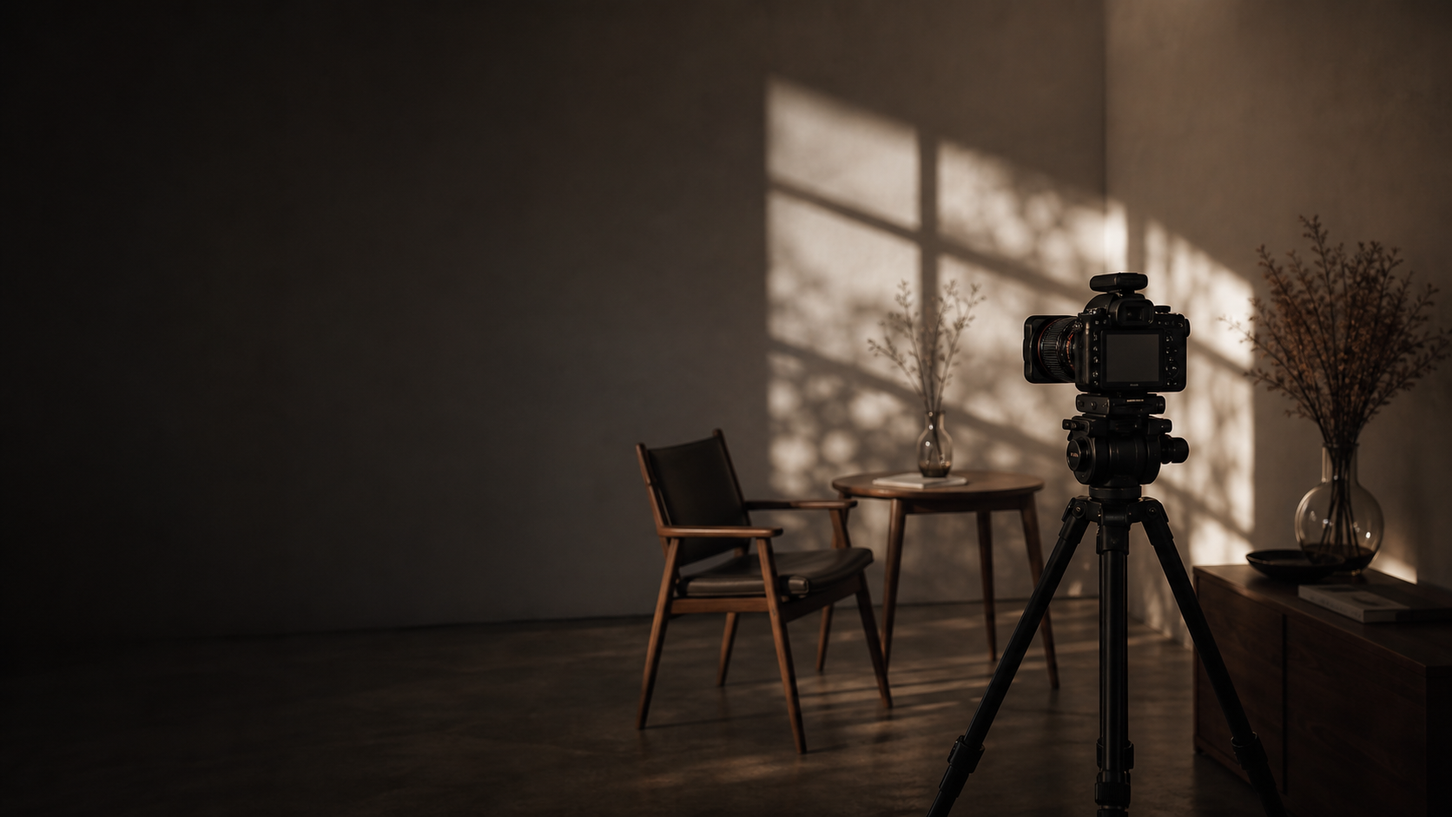
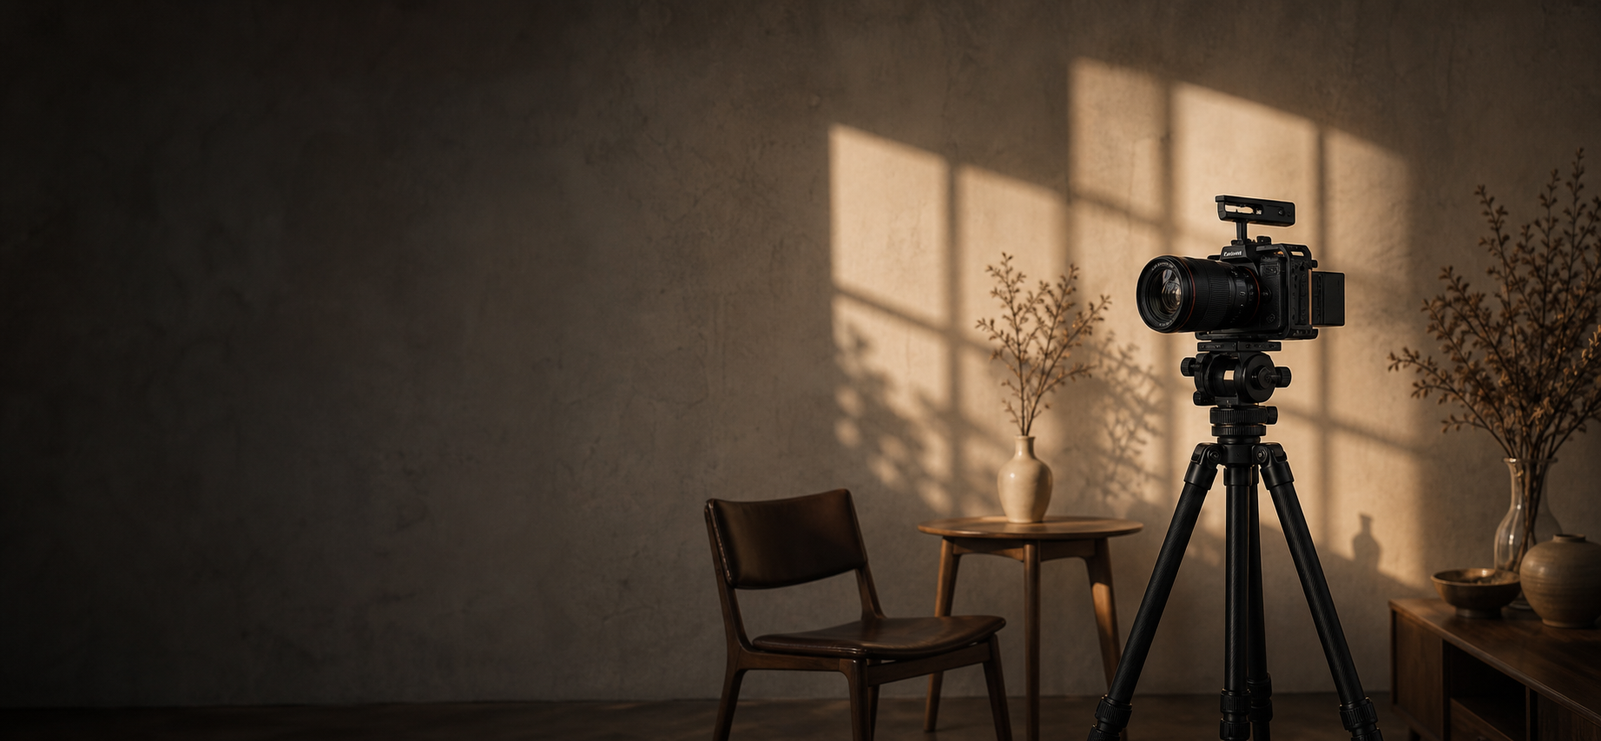
Migrate Workers frontend

diff --git a/index.html b/index.html
@@ -1,11 +1,44 @@
-<!doctype html><html lang="zh-Hant"><head><meta charset="utf-8"><!-- Google tag (gtag.js) --><script async src="https://www.googletagmanager.com/gtag/js?id=G-9WHNBT7GTQ"></script><script>window.dataLayer = window.dataLayer || []; function gtag(){dataLayer.push(arguments);} gtag('js', new Date()); gtag('config', 'G-9WHNBT7GTQ');</script><meta name="viewport" content="width=device-width,initial-scale=1"><meta name="description" content="隙光影像｜讓每一段影音，都成為成交的契機。"><title>隙光 SEAM OF LIGHT｜影像品牌顧問</title><link href="https://cdn.jsdelivr.net/npm/bootstrap@5.3.3/dist/css/bootstrap.min.css" rel="stylesheet"><link rel="stylesheet" href="https://cdn.jsdelivr.net/npm/bootstrap-icons@1.11.3/font/bootstrap-icons.min.css"><link rel="stylesheet" href="style.css"></head><body>
-<nav class="navbar navbar-expand-lg navbar-dark fixed-top" id="nav"><div class="container"><a class="navbar-brand logo" href="#top">隙 光<small>— SEAM OF LIGHT —</small></a><button class="navbar-toggler border-0" data-bs-toggle="collapse" data-bs-target="#menu"><span class="navbar-toggler-icon"></span></button><div class="collapse navbar-collapse" id="menu"><ul class="navbar-nav ms-auto align-items-lg-center gap-lg-4"><li><a class="nav-link" href="#services">服務內容</a></li><li><a class="nav-link" href="#method">製作方法論</a></li><li><a class="nav-link" href="#works">作品案例</a></li><li><a class="nav-link" href="#contact">關於我們</a></li><li><a class="btn btn-cream ms-lg-2" href="#contact">立即預約</a></li></ul></div></div></nav>
-<header class="hero" id="top"><div class="container hero-content"><p class="eyebrow">BRAND FILM · VISUAL STRATEGY</p><h1 id="heroTitle">讓每一段影音，<br>都成為成交的契機。</h1><p id="heroDesc">我們不只拍攝影片，<br>更專注於打造「能被看完、被記住、能轉化」的影音內容。</p><a class="btn btn-cream btn-lg" href="#contact">立即預約影音診斷 <i class="bi bi-arrow-right ms-3"></i></a></div><a class="scroll" href="#problem">SCROLL<span></span></a></header>
+<!doctype html>
+<html lang="zh-Hant">
+<head>
+  <meta charset="utf-8">
+  <!-- Google tag (gtag.js) -->
+  <script async src="https://www.googletagmanager.com/gtag/js?id=G-9WHNBT7GTQ"></script>
+  <script>
+    window.dataLayer = window.dataLayer || [];
+    function gtag(){dataLayer.push(arguments);}
+    gtag('js', new Date());
+    gtag('config', 'G-9WHNBT7GTQ');
+  </script>
+  <meta name="viewport" content="width=device-width,initial-scale=1">
+  <meta name="description" content="隙光影像製作，以觀點整理影像，讓內容留下真正的光。">
+  <title>隙光 SLIT.LIGHT｜品牌影像製作</title>
+  <link rel="preconnect" href="https://fonts.googleapis.com">
+  <link rel="preconnect" href="https://fonts.gstatic.com" crossorigin>
+  <link href="https://fonts.googleapis.com/css2?family=Noto+Sans+TC:wght@300;400;500&family=Noto+Serif+TC:wght@400;500;600&display=swap" rel="stylesheet">
+  <link href="https://cdn.jsdelivr.net/npm/bootstrap@5.3.3/dist/css/bootstrap.min.css" rel="stylesheet">
+  <link rel="stylesheet" href="https://cdn.jsdelivr.net/npm/bootstrap-icons@1.11.3/font/bootstrap-icons.min.css">
+  <link href="style.css?v=5" rel="stylesheet">
+</head>
+<body>
+<nav class="navbar navbar-expand-lg fixed-top"><div class="container-fluid shell"><a class="navbar-brand brand" href="#top">隙 光<small>SLIT.LIGHT</small></a><button class="navbar-toggler border-0" data-bs-toggle="collapse" data-bs-target="#nav" aria-label="開啟選單"><span class="navbar-toggler-icon"></span></button><div id="nav" class="collapse navbar-collapse"><ul class="navbar-nav ms-auto align-items-lg-center gap-lg-4"><li><a class="nav-link" href="#philosophy">品牌哲學</a></li><li><a class="nav-link" href="#values">核心價值</a></li><li><a class="nav-link" href="#services">服務項目</a></li><li><a class="nav-link" href="#process">合作流程</a></li><li><a class="nav-link" href="#works">作品精選</a></li><li><a class="nav-link" href="#contact">聯絡諮詢</a></li><li><a class="btn btn-gold ms-lg-2" href="#contact">預約品牌影像診斷</a></li></ul></div></div></nav>
+
 <main>
-<section class="problem section" id="problem"><div class="container"><div class="row align-items-center g-5"><div class="col-lg-6"><p class="eyebrow dark">THE QUESTION</p><h2>在資訊爆炸的時代，<br>您的影片，真的有效嗎？</h2><p class="mt-4">數以萬計的影片被上傳，但多數只是「鋪陳太長、沒人看完」。<br>您的影片是華麗的素材展示，還是能持續優化的「詢問來源」？</p><div class="insight"><i class="bi bi-bullseye"></i><span>影片失敗的原因，往往不是預算，而是缺乏<br>品牌定位與轉化故事設計。</span></div></div><div class="col-lg-6 phone-art"><div class="phone"><i class="bi bi-play-fill"></i></div><div class="hand"></div></div></div></div></section>
-<section class="philosophy section border-top border-bottom"><div class="container"><div class="row g-0"><div class="col-lg-3 pe-lg-5"><p class="eyebrow dark">OUR PHILOSOPHY</p><h2>隙光的信念</h2></div><div class="col-md-4 col-lg-3 pillar"><h3>隙</h3><p>代表市場中的空隙，<br>以及品牌與受眾間<br>尚未被填補的距離。</p></div><div class="col-md-4 col-lg-3 pillar"><h3>光</h3><p>代表故事與情感責任；<br>當光照進心中，<br>就是成長的開始。</p></div><div class="col-md-4 col-lg-3 pillar"><h3>我們相信</h3><p>真正的價值不在於華麗特效，<br>而在於讓人<br>願意相信、願意行動。</p></div></div></div></section>
-<section class="section" id="services"><div class="container"><p class="eyebrow dark">OUR SERVICES</p><h2>我們的服務</h2><div class="row g-4 mt-4" id="serviceList"></div></div></section>
-<section class="section method" id="method"><div class="container"><p class="eyebrow dark">OUR METHODOLOGY</p><h2>我們的製作方法論</h2><div class="row g-4 mt-4"><div class="col-md-4"><article class="method-card"><div class="method-img devices"><i class="bi bi-laptop"></i><i class="bi bi-phone"></i></div><div><h3>多版本設計</h3><p>一次拍攝，輸出適合官網、社群、展場等多場景版本，極大化預算效益。</p></div></article></div><div class="col-md-4"><article class="method-card"><div class="method-img blueprint"><i class="bi bi-bezier2"></i></div><div><h3>轉化金公式</h3><p>前 3 秒吸睛鉤子＋單一主題傳達＋強力行動呼籲。</p></div></article></div><div class="col-md-4"><article class="method-card"><div class="method-img meeting"><i class="bi bi-people"></i></div><div><h3>系統化管理</h3><p>從訪談、腳本、前置、拍攝到後製，由同一窗口管理，減少溝通成本。</p></div></article></div></div></div></section>
-<section class="section work-audience" id="works"><div class="container"><div class="row g-5"><div class="col-lg-5"><p class="eyebrow dark">WHO WE SERVE</p><h2>我們服務的對象</h2><div class="row mt-4 g-4"><div class="col-4 audience"><i class="bi bi-person"></i><h4>個人創作者</h4><p>建立個人 IP 與市場影響力。</p></div><div class="col-4 audience"><i class="bi bi-building"></i><h4>企業老闆</h4><p>建立具秩序的信任模型。</p></div><div class="col-4 audience"><i class="bi bi-patch-check"></i><h4>品牌經營者</h4><p>需要專業策略與內容。</p></div></div></div><div class="col-lg-7 ps-lg-5 work-side"><div class="d-flex justify-content-between"><div><p class="eyebrow dark">OUR WORK</p><h2>精選作品</h2></div><a href="#contact" class="text-link">查看完整作品 →</a></div><div class="row g-3 mt-2" id="workList"></div></div></div></div></section>
-<section class="section contact" id="contact"><div class="container"><div class="row g-5"><div class="col-lg-3"><p class="eyebrow dark">CONTACT US</p><h2>讓我們一起<br>創造影響力</h2><p>填寫表單，讓我們更了解您的需求，為您提供客製化的影音策略建議。</p></div><div class="col-lg-5"><form id="contactForm" class="row g-3"><div class="col-6"><input class="form-control" required placeholder="您的稱呼"></div><div class="col-6"><input class="form-control" required type="tel" placeholder="聯絡電話"></div><div class="col-6"><select class="form-select"><option>影片目標</option><option>品牌曝光</option><option>產品銷售</option><option>人才招募</option></select></div><div class="col-6"><select class="form-select"><option>預算範圍</option><option>5–10 萬</option><option>10–30 萬</option><option>30 萬以上</option></select></div><div class="col-12"><textarea class="form-control" rows="3" placeholder="其他需求或想法"></textarea></div><div class="col-12"><button class="btn btn-dark w-100" type="submit">送出需求 <i class="bi bi-arrow-right ms-3"></i></button></div></form></div><div class="col-lg-4"><p class="eyebrow dark">FAQ</p><h2>常見問題</h2><div class="accordion accordion-flush" id="faq"></div></div></div></div></section>
-</main><footer><div class="container d-flex flex-column flex-lg-row gap-4 justify-content-between align-items-lg-center"><div class="logo">隙 光<small>— SEAM OF LIGHT —</small></div><div><small>LINE</small><p id="lineText">@seamoflight</p></div><div><small>EMAIL</small><p id="emailText">hello@seamoflight.com</p></div><div><small>PHONE</small><p id="phoneText">02-1234-5678</p></div><div class="social"><a href="#"><i class="bi bi-line"></i></a><a href="#"><i class="bi bi-facebook"></i></a><a href="#"><i class="bi bi-instagram"></i></a></div><a class="admin-link" href="admin.html">後台管理</a></div></footer><div class="toast-container position-fixed bottom-0 end-0 p-3"><div class="toast" id="toast"><div class="toast-body">需求已送出，我們將盡快與您聯繫。</div></div></div><script src="https://cdn.jsdelivr.net/npm/bootstrap@5.3.3/dist/js/bootstrap.bundle.min.js"></script><script src="app.js"></script></body></html>
+  <header id="top" class="hero"><div class="hero-image"></div><div class="container-fluid shell hero-content"><div class="col-lg-6"><h1 data-content="heroTitle">讓影像不再只是被觀看，<br>而是真正被「理解」。</h1><p data-content="heroText">介於廣告美學與內容行銷之間，我們不只拍攝畫面，<br>更透過「觀點企劃」整理您的品牌靈魂，<br>讓每一幀影像都有意義。</p><a class="btn btn-gold" href="#contact" data-content="cta">預約品牌影像診斷</a></div></div></header>
+
+  <section id="philosophy" class="section philosophy"><div class="container shell-sm"><h2 class="text-center">在吵雜的時代，尋找品牌的一束「隙光」</h2><div class="title-line"></div><div class="row g-0 mt-5"><article class="col-md-4 principle"><span>01</span><h3>誠實行銷</h3><p>不過度造勢，只說真誠的人與<br>真實的故事。</p></article><article class="col-md-4 principle"><span>02</span><h3>留白的美學</h3><p>不擠充所有事物，只聚焦<br>最重要的品牌光影。</p></article><article class="col-md-4 principle"><span>03</span><h3>前導的轉化力</h3><p>把聽中模糊的關係，<br>整理成精準的影像語言。</p></article></div></div></section>
+
+  <section id="values" class="section compact"><div class="container shell-sm"><h2 class="section-title">核心價值</h2><div class="row g-4"><div class="col-md-4"><article class="feature-card"><i class="bi bi-compass"></i><div><h3>策略先行</h3><p>先釐清對話與設計焦點，<br>再開始拍攝。</p></div></article></div><div class="col-md-4"><article class="feature-card"><i class="bi bi-person"></i><div><h3>職人觀點</h3><p>讓畫面真實厚重，<br>承載品牌價值。</p></div></article></div><div class="col-md-4"><article class="feature-card"><i class="bi bi-bar-chart-line"></i><div><h3>資產規劃</h3><p>一次拍攝，多平台延伸，<br>放大內容效益。</p></div></article></div></div></div></section>
+
+  <section id="services" class="section compact"><div class="container shell-sm"><h2 class="section-title">服務項目</h2><div class="row g-4"><div class="col-md-4"><article class="service-card service-one"><i class="bi bi-buildings"></i><div><h3>質感企業形象片</h3><p>適合新創與 DTC 品牌的<br>策略留白風格影像。</p></div></article></div><div class="col-md-4"><article class="service-card service-two"><i class="bi bi-play-circle"></i><div><h3>品牌短影音策劃</h3><p>打造有觀點、不盲目<br>跟風的精準內容。</p></div></article></div><div class="col-md-4"><article class="service-card service-three"><i class="bi bi-file-earmark-text"></i><div><h3>腳本企劃與統籌</h3><p>從模糊想法到可執行影像，<br>提供顧問式整理。</p></div></article></div></div></div></section>
+
+  <section id="process" class="section compact"><div class="container shell-sm"><h2 class="section-title mb-1">合作流程</h2><p class="text-center muted">從目標釐清到內容落地，建立透明、安心的合作節奏。</p><div class="process-grid"><article><span>01</span><i class="bi bi-chat"></i><h3>品牌對話</h3></article><b>›</b><article><span>02</span><i class="bi bi-file-earmark-text"></i><h3>腳本提案</h3></article><b>›</b><article><span>03</span><i class="bi bi-camera"></i><h3>職人執行</h3></article><b>›</b><article><span>04</span><i class="bi bi-send"></i><h3>多版本交付</h3></article></div></div></section>
+
+  <section id="works" class="section compact works"><div class="container shell-sm"><h2 class="section-title">作品精選</h2><div class="row g-4"><div class="col-md-4"><article class="work-card"><div class="work-image work-a" role="img" aria-label="品牌形象短片"></div><div><h3>品牌形象短片</h3><p>核心觀點：讓品牌被理解，而不只是被看見。</p></div></article></div><div class="col-md-4"><article class="work-card"><div class="work-image work-b" role="img" aria-label="產品敘事內容"></div><div><h3>產品敘事內容</h3><p>核心觀點：以情緒與使用情境建立信任。</p></div></article></div><div class="col-md-4"><article class="work-card"><div class="work-image work-c" role="img" aria-label="人物紀實影像"></div><div><h3>人物紀實影像</h3><p>核心觀點：讓真實本身成為最有力的投照。</p></div></article></div></div></div></section>
+
+  <section id="contact" class="section contact"><div class="container shell-sm"><div class="row g-5 align-items-center"><div class="col-lg-4"><h2>您的品牌故事，<br>值得一個更好的說法。</h2></div><div class="col-lg-8"><form id="contactForm" class="row g-2"><div class="col-md-6"><input class="form-control" placeholder="姓名" required></div><div class="col-md-6"><input class="form-control" type="email" placeholder="Email" required></div><div class="col-md-6"><input class="form-control" placeholder="品牌名稱"></div><div class="col-md-6"><input class="form-control" placeholder="聯絡方式"></div><div class="col-12"><select class="form-select"><option>預算範圍</option><option>10–30 萬</option><option>30–60 萬</option><option>60 萬以上</option></select></div><div class="col-12"><textarea class="form-control" rows="3" placeholder="您的品牌目前最想解決的影像痛點為何？"></textarea></div><div class="col-12"><button class="btn btn-gold px-5" type="submit">送出諮詢</button></div></form></div></div></div></section>
+  </main>
+
+  <footer><div class="container shell-sm"><div class="row align-items-end g-4"><div class="col-md-3"><div class="brand">隙 光<small>SLIT.LIGHT</small></div></div><div class="col-md-6 text-center"><p>以觀點整理影像，讓內容留下真正的光。</p></div><div class="col-md-3 socials"><a href="#" aria-label="Instagram"><i class="bi bi-instagram"></i></a><a href="#" aria-label="Facebook"><i class="bi bi-facebook"></i></a><a href="mailto:hello@seamoflight.com" aria-label="Email"><i class="bi bi-envelope"></i></a></div></div></div></footer>
+  <script src="https://cdn.jsdelivr.net/npm/bootstrap@5.3.3/dist/js/bootstrap.bundle.min.js"></script><script src="app.js?v=3"></script>
+</body></html>

diff --git a/style.css b/style.css
@@ -1,2 +1,4 @@
-@import url('https://fonts.googleapis.com/css2?family=Noto+Sans+TC:wght@300;400;500&family=Noto+Serif+TC:wght@400;500;600&display=swap');
-:root{--ink:#2c2824;--muted:#756e67;--cream:#f2e5d2;--accent:#b99a76;--paper:#faf9f7}*{box-sizing:border-box}html{scroll-behavior:smooth}body{margin:0;background:var(--paper);color:var(--ink);font-family:'Noto Sans TC',sans-serif;font-weight:300;line-height:1.8}.container{max-width:1180px}h1,h2,h3,.logo{font-family:'Noto Serif TC',serif;font-weight:400;letter-spacing:.1em}h2{font-size:clamp(1.7rem,3vw,2.45rem);line-height:1.45}.section{padding:100px 0}.eyebrow{font-size:.66rem;letter-spacing:.22em;color:#eee;margin:0 0 8px}.eyebrow.dark{color:#968c82}.logo{font-size:1.6rem;color:#fff!important;line-height:1}.logo small{display:block;font-family:serif;font-size:.42rem;letter-spacing:.15em;margin-top:8px}.navbar{padding:22px 0;transition:.3s}.navbar.scrolled{background:rgba(28,24,21,.94);padding:12px 0;backdrop-filter:blur(12px)}.nav-link{color:#eee!important;font-size:.86rem}.btn{border-radius:30px;padding:.7rem 1.5rem;letter-spacing:.08em}.btn-cream{background:var(--cream);color:#302921;border:0}.btn-cream:hover{background:#fff}.hero{height:min(760px,100vh);min-height:650px;background:linear-gradient(90deg,rgba(10,10,9,.55),rgba(10,10,9,.04)),url('assets/hero.png') center/cover;position:relative;color:#fff}.hero-content{height:100%;display:flex;flex-direction:column;justify-content:center;align-items:flex-start}.hero h1{font-size:clamp(2.25rem,4.3vw,4.25rem);line-height:1.55;margin:8px 0 20px}.hero p:not(.eyebrow){font-size:.9rem;line-height:2.1;margin-bottom:30px}.scroll{position:absolute;bottom:0;left:50%;color:#fff;text-decoration:none;font-size:.6rem;letter-spacing:.2em}.scroll span{display:block;width:1px;height:38px;background:#fff;margin:8px auto 0}.problem{min-height:520px;background:radial-gradient(circle at 75% 50%,#e3e0db 0,transparent 30%)}.insight{display:flex;gap:18px;align-items:center;margin-top:30px;font-size:.9rem}.insight i{font-size:2rem;color:var(--accent)}.phone-art{height:320px;position:relative}.phone{position:absolute;width:230px;height:130px;left:25%;top:40px;border:5px solid #777;border-radius:25px;background:#1d1d1d;box-shadow:0 20px 50px #aaa;display:grid;place-items:center}.phone i{font-size:3rem;color:#aaa}.hand{position:absolute;left:52%;top:150px;width:85px;height:190px;background:linear-gradient(100deg,#a49e98,#ece9e5);border-radius:50% 30% 45% 50%;transform:rotate(-27deg);filter:grayscale(1)}.pillar{border-left:1px solid #d8d2cb;padding:10px 38px}.pillar h3{font-size:1.5rem}.pillar p,.method-card p,.audience p{font-size:.82rem;color:var(--muted)}.service-card{text-align:center;padding:20px 10px;border-right:1px solid #e2ddd7;height:100%}.service-card i{font-size:2.4rem;color:var(--accent)}.service-card h3{font-size:1rem;margin:20px 0 10px}.method{background:#f7f4f0}.method-card{background:#fff;border-radius:12px;overflow:hidden;height:100%;transition:.3s}.method-card:hover{transform:translateY(-6px);box-shadow:0 18px 40px #2f241215}.method-card>div:last-child{padding:20px 24px}.method-card h3{font-size:1.2rem}.method-img{height:190px;display:flex;align-items:center;justify-content:center;gap:10px;font-size:4rem;color:#493d33;background:linear-gradient(135deg,#d7d0c8,#f1eee9)}.blueprint{background:repeating-linear-gradient(0deg,#eee 0,#eee 19px,#ddd 20px);color:#9f815e}.meeting{background:linear-gradient(135deg,#2d2926,#b7a28e);color:#eee}.audience i{font-size:2rem;color:var(--accent)}.audience h4{font-size:.88rem;margin-top:12px}.work-side{border-left:1px solid #e0dbd5}.text-link{color:var(--muted);font-size:.8rem;text-decoration:none}.work-card .thumb{height:130px;border-radius:8px;display:grid;place-items:center;background-size:cover;background-position:center;color:#fff;font-size:2.8rem;position:relative;overflow:hidden}.work-card .thumb:after{content:'';position:absolute;inset:0;background:#0003}.work-card .thumb i{z-index:1}.work-card h4{font-size:.85rem;margin-top:10px}.work-card p{font-size:.78rem;color:var(--muted)}.contact{background:#f4f0eb}.form-control,.form-select{border-color:#ddd5cd;background:#ffffffcc;padding:.75rem}.accordion-button{background:transparent!important;font-size:.84rem;box-shadow:none!important}.accordion-body{font-size:.8rem;color:var(--muted)}footer{padding:28px 0;background:#fff;border-top:1px solid #eee}footer .logo{color:var(--ink)!important}footer small{letter-spacing:.12em}footer p{font-size:.78rem;color:#777;margin:0}.social{display:flex;gap:12px}.social a{display:grid;place-items:center;width:34px;height:34px;border-radius:50%;background:#332e29;color:white}.admin-link{font-size:.7rem;color:#aaa;text-decoration:none}@media(max-width:991px){.navbar-collapse{background:#24201d;padding:20px;margin-top:12px}.hero{background-position:63% center}.hero-content{padding-top:80px}.pillar{margin-top:24px}.work-side{border-left:0}.section{padding:72px 0}}@media(max-width:575px){.hero{min-height:700px}.hero h1{font-size:2.15rem}.problem .phone-art{height:280px}.phone{left:5%;transform:scale(.85)}.section{padding:60px 0}.pillar{padding-left:24px}.service-card{border-right:0;border-bottom:1px solid #ddd}.work-side{padding-left:12px!important}}
+:root{--ink:#302922;--muted:#716961;--gold:#aa8b68;--paper:#fbfaf8;--line:#ddd5cc;--serif:'Noto Serif TC',serif;--sans:'Noto Sans TC',sans-serif}*{box-sizing:border-box}html{scroll-behavior:smooth}body{margin:0;background:var(--paper);color:var(--ink);font-family:var(--sans);font-weight:300;line-height:1.8}h1,h2,h3,.brand{font-family:var(--serif);font-weight:400;letter-spacing:.08em}.shell{max-width:1480px;padding-left:4vw;padding-right:4vw}.shell-sm{max-width:1240px}.navbar{height:86px;background:rgba(251,250,248,.92);transition:.3s;backdrop-filter:blur(12px)}.navbar.scrolled{height:70px;box-shadow:0 3px 24px #4c3e3020}.brand{font-size:1.85rem;line-height:1;color:var(--ink)}.brand small{display:block;font:500 .52rem var(--sans);letter-spacing:.28em;margin-top:8px}.nav-link{color:var(--ink);font-size:.82rem;letter-spacing:.08em}.btn{border-radius:0;padding:.85rem 1.75rem;font-size:.82rem;letter-spacing:.08em}.btn-gold{background:var(--gold);color:#fff;border:1px solid var(--gold)}.btn-gold:hover{background:#927455;color:#fff}.hero{position:relative;height:710px;margin-top:0;overflow:hidden}.hero-image{position:absolute;inset:0;background:url('assets/hero.png') center/cover no-repeat;filter:brightness(1.35) saturate(.52)}.hero:after{content:"";position:absolute;inset:0;background:linear-gradient(90deg,#fbfaf8 0%,rgba(251,250,248,.97) 31%,rgba(251,250,248,.65) 51%,rgba(251,250,248,.05) 73%)}.hero-content{position:relative;z-index:1;height:100%;display:flex;align-items:center;padding-top:72px}.hero h1{font-size:clamp(2.3rem,4.1vw,4rem);line-height:1.65;margin-bottom:22px}.hero p{font-family:var(--serif);font-size:1rem;line-height:2.15;margin-bottom:35px}.section{padding:68px 0}.compact{padding-top:28px;padding-bottom:28px}.philosophy{background:#fff}.philosophy h2,.section-title{text-align:center;font-size:1.9rem}.title-line{width:45px;height:2px;background:var(--gold);margin:20px auto}.principle{padding:0 65px;border-right:1px solid var(--line)}.principle:last-child{border:0}.principle span{color:var(--gold);font-family:var(--serif);font-size:.8rem}.principle h3{font-size:1.15rem;margin:14px 0 8px}.principle p,.muted{color:var(--muted);font-size:.82rem}.feature-card{height:145px;border:1px solid var(--line);display:flex;align-items:center;gap:28px;padding:28px 36px;background:#fff}.feature-card i,.service-card i{font-size:3rem;color:var(--gold);font-weight:200}.feature-card h3,.service-card h3{font-size:1.12rem}.feature-card p,.service-card p{font-size:.8rem;color:var(--muted);margin:0}.service-card{height:180px;position:relative;overflow:hidden;display:flex;align-items:center;gap:28px;padding:30px 36px;background:#eae4dc}.service-card:after{content:"";position:absolute;inset:0;background:linear-gradient(90deg,rgba(248,246,242,.95),rgba(248,246,242,.53))}.service-card>*{position:relative;z-index:1}.service-one{background:url('assets/hero.png') 72% 70%/180% auto}.service-two{background:url('assets/hero.png') 92% 38%/175% auto}.service-three{background:url('assets/hero.png') 58% 48%/165% auto}.process-grid{display:grid;grid-template-columns:1fr auto 1fr auto 1fr auto 1fr;align-items:end;text-align:center;margin-top:22px}.process-grid article span{display:grid;place-items:center;width:44px;height:44px;border:1px solid var(--line);border-radius:50%;margin:0 auto 12px;color:#806b55;font-size:.75rem}.process-grid article i{font-size:2.1rem;color:var(--gold)}.process-grid article h3{font-size:1rem;margin-top:12px}.process-grid b{font-size:2rem;color:var(--gold);font-weight:300;padding-bottom:18px}.work-card{border:1px solid var(--line);background:#fff}.work-card img{width:100%;height:185px;object-fit:cover;filter:saturate(.55) sepia(.08)}.work-card>div{padding:16px 22px}.work-card h3{font-size:1.05rem}.work-card p{font-size:.75rem;color:var(--muted);margin:0}.contact{background:linear-gradient(90deg,#f7f3ed,#fbfaf8)}.contact h2{font-size:2rem;line-height:1.7}.form-control,.form-select{border-radius:2px;border-color:#d7d0c8;background:rgba(255,255,255,.6);font-size:.8rem;padding:.68rem .9rem}.form-control:focus,.form-select:focus{border-color:var(--gold);box-shadow:0 0 0 .18rem #aa8b681e}footer{padding:35px 0;background:#fff}footer p{margin:0;color:#948b82;letter-spacing:.1em}.socials{display:flex;justify-content:flex-end;gap:28px}.socials a{color:var(--ink);font-size:1.3rem}
+@media(max-width:991px){.navbar-collapse{background:#fbfaf8;margin:12px -4vw 0;padding:20px 4vw 28px}.hero{height:650px}.hero:after{background:linear-gradient(90deg,#fbfaf8 0%,rgba(251,250,248,.92) 55%,rgba(251,250,248,.35))}.principle{padding:0 28px}.feature-card,.service-card{padding:25px}.service-card{gap:18px}.feature-card i,.service-card i{font-size:2.3rem}}
+@media(max-width:767px){.shell{padding-left:22px;padding-right:22px}.hero{height:690px}.hero-image{background-position:68% center}.hero:after{background:linear-gradient(90deg,rgba(251,250,248,.98),rgba(251,250,248,.72))}.hero h1{font-size:2.25rem}.hero p br{display:none}.section{padding:55px 0}.compact{padding-top:24px;padding-bottom:24px}.principle{padding:22px 8px;border-right:0;border-bottom:1px solid var(--line);text-align:center}.feature-card,.service-card{height:auto;min-height:145px}.process-grid{grid-template-columns:1fr 1fr;gap:28px}.process-grid b{display:none}.work-card img{height:220px}.contact h2{text-align:center}.socials{justify-content:center}footer{text-align:center}footer .brand{margin-bottom:10px}}
+.work-card .work-image{width:100%;height:185px;padding:0;background-image:url('assets/hero.png');background-repeat:no-repeat;filter:saturate(.55) sepia(.08)}.work-a{background-size:150%;background-position:88% 35%}.work-b{background-size:180%;background-position:72% 70%}.work-c{background-size:165%;background-position:52% 48%}.hero h1{font-size:clamp(2.3rem,3.5vw,3.45rem)}.contact .row{margin-left:0;margin-right:0}@media(max-width:767px){.work-card .work-image{height:220px}.hero h1{font-size:2.05rem}}

diff --git a/app.js b/app.js
@@ -1,2 +1,6 @@
-const defaults={heroTitle:'讓每一段影音，<br>都成為成交的契機。',heroDesc:'我們不只拍攝影片，<br>更專注於打造「能被看完、被記住、能轉化」的影音內容。',phone:'02-1234-5678',email:'hello@seamoflight.com',line:'@seamoflight',services:[['bi-bullseye','品牌定位與診斷','從商業目標出發，釐清溝通主軸與差異化。'],['bi-file-earmark-text','影音策略規劃','腳本先於鏡頭，確保每一步鏡頭都承載說服力。'],['bi-camera','專業影片製作','企業形象、產品展示、短影音，一站式製作。'],['bi-graph-up-arrow','完播率與轉化設計','專注前 3 秒與 CTA，讓流量引導行動。'],['bi-bar-chart-line','社群代操與數據優化','不只上架，更透過數據優化內容。']],works:[['科技品牌形象影片','提升詢問量 210%'],['專業專案影片','進場率 350%'],['課程銷售影片','完課率提升 65%']],faqs:[['影片製作的流程是什麼？','從需求訪談、策略與腳本、前期製作、正式拍攝、後期剪輯到交付，皆由單一窗口協作。'],['製作一支影片需要多久時間？','一般專案約 4–8 週，實際依影片長度、拍攝規模與修改輪次而定。'],['預算大概落在哪個範圍？','會依需求客製估價；完整品牌影片通常從 10 萬元起。'],['影片可以運用在哪些平台？','可依官網、YouTube、Instagram、TikTok、展場等平台輸出適合比例。']]};
-const data=Object.assign({},defaults,JSON.parse(localStorage.getItem('seamContent')||'{}'));document.getElementById('heroTitle').innerHTML=data.heroTitle;document.getElementById('heroDesc').innerHTML=data.heroDesc;document.getElementById('phoneText').textContent=data.phone;document.getElementById('emailText').textContent=data.email;document.getElementById('lineText').textContent=data.line;document.getElementById('serviceList').innerHTML=data.services.map(x=>`<div class="col-sm-6 col-lg"><article class="service-card"><i class="bi ${x[0]}"></i><h3>${x[1]}</h3><p>${x[2]}</p></article></div>`).join('');document.getElementById('workList').innerHTML=data.works.map((x,i)=>`<div class="col-4 work-card"><div class="thumb" style="background-image:linear-gradient(135deg,#63554a,#b8a38f)"><i class="bi bi-play-circle"></i></div><h4>${x[0]}</h4><p>${x[1]}</p></div>`).join('');document.getElementById('faq').innerHTML=data.faqs.map((x,i)=>`<div class="accordion-item bg-transparent"><h3 class="accordion-header"><button class="accordion-button collapsed" data-bs-toggle="collapse" data-bs-target="#f${i}">${x[0]}</button></h3><div id="f${i}" class="accordion-collapse collapse" data-bs-parent="#faq"><div class="accordion-body">${x[1]}</div></div></div>`).join('');addEventListener('scroll',()=>document.getElementById('nav').classList.toggle('scrolled',scrollY>40));document.getElementById('contactForm').addEventListener('submit',e=>{e.preventDefault();bootstrap.Toast.getOrCreateInstance(document.getElementById('toast')).show();e.target.reset()});
+const defaults={heroTitle:'讓影像不再只是被觀看，\n而是真正被「理解」。',heroText:'介於廣告美學與內容行銷之間，我們不只拍攝畫面，\n更透過「觀點企劃」整理您的品牌靈魂，\n讓每一幀影像都有意義。',cta:'預約品牌影像診斷',phone:'02-1234-5678',email:'hello@seamoflight.com',line:'@seamoflight'};
+const content={...defaults,...JSON.parse(localStorage.getItem('slit-content-v2')||'{}')};
+document.querySelectorAll('[data-content]').forEach(el=>{const v=content[el.dataset.content];if(v)el.innerHTML=v.replace(/\n/g,'<br>')});
+addEventListener('scroll',()=>document.querySelector('.navbar')?.classList.toggle('scrolled',scrollY>50));
+document.querySelectorAll('.faq-button').forEach(btn=>btn.onclick=()=>{const p=btn.nextElementSibling;p.classList.toggle('d-none');btn.lastElementChild.textContent=p.classList.contains('d-none')?'+':'−'});
+document.querySelector('#contactForm')?.addEventListener('submit',e=>{e.preventDefault();const btn=e.currentTarget.querySelector('button');btn.textContent='已收到您的需求 ✓';btn.disabled=true;e.currentTarget.reset()});
